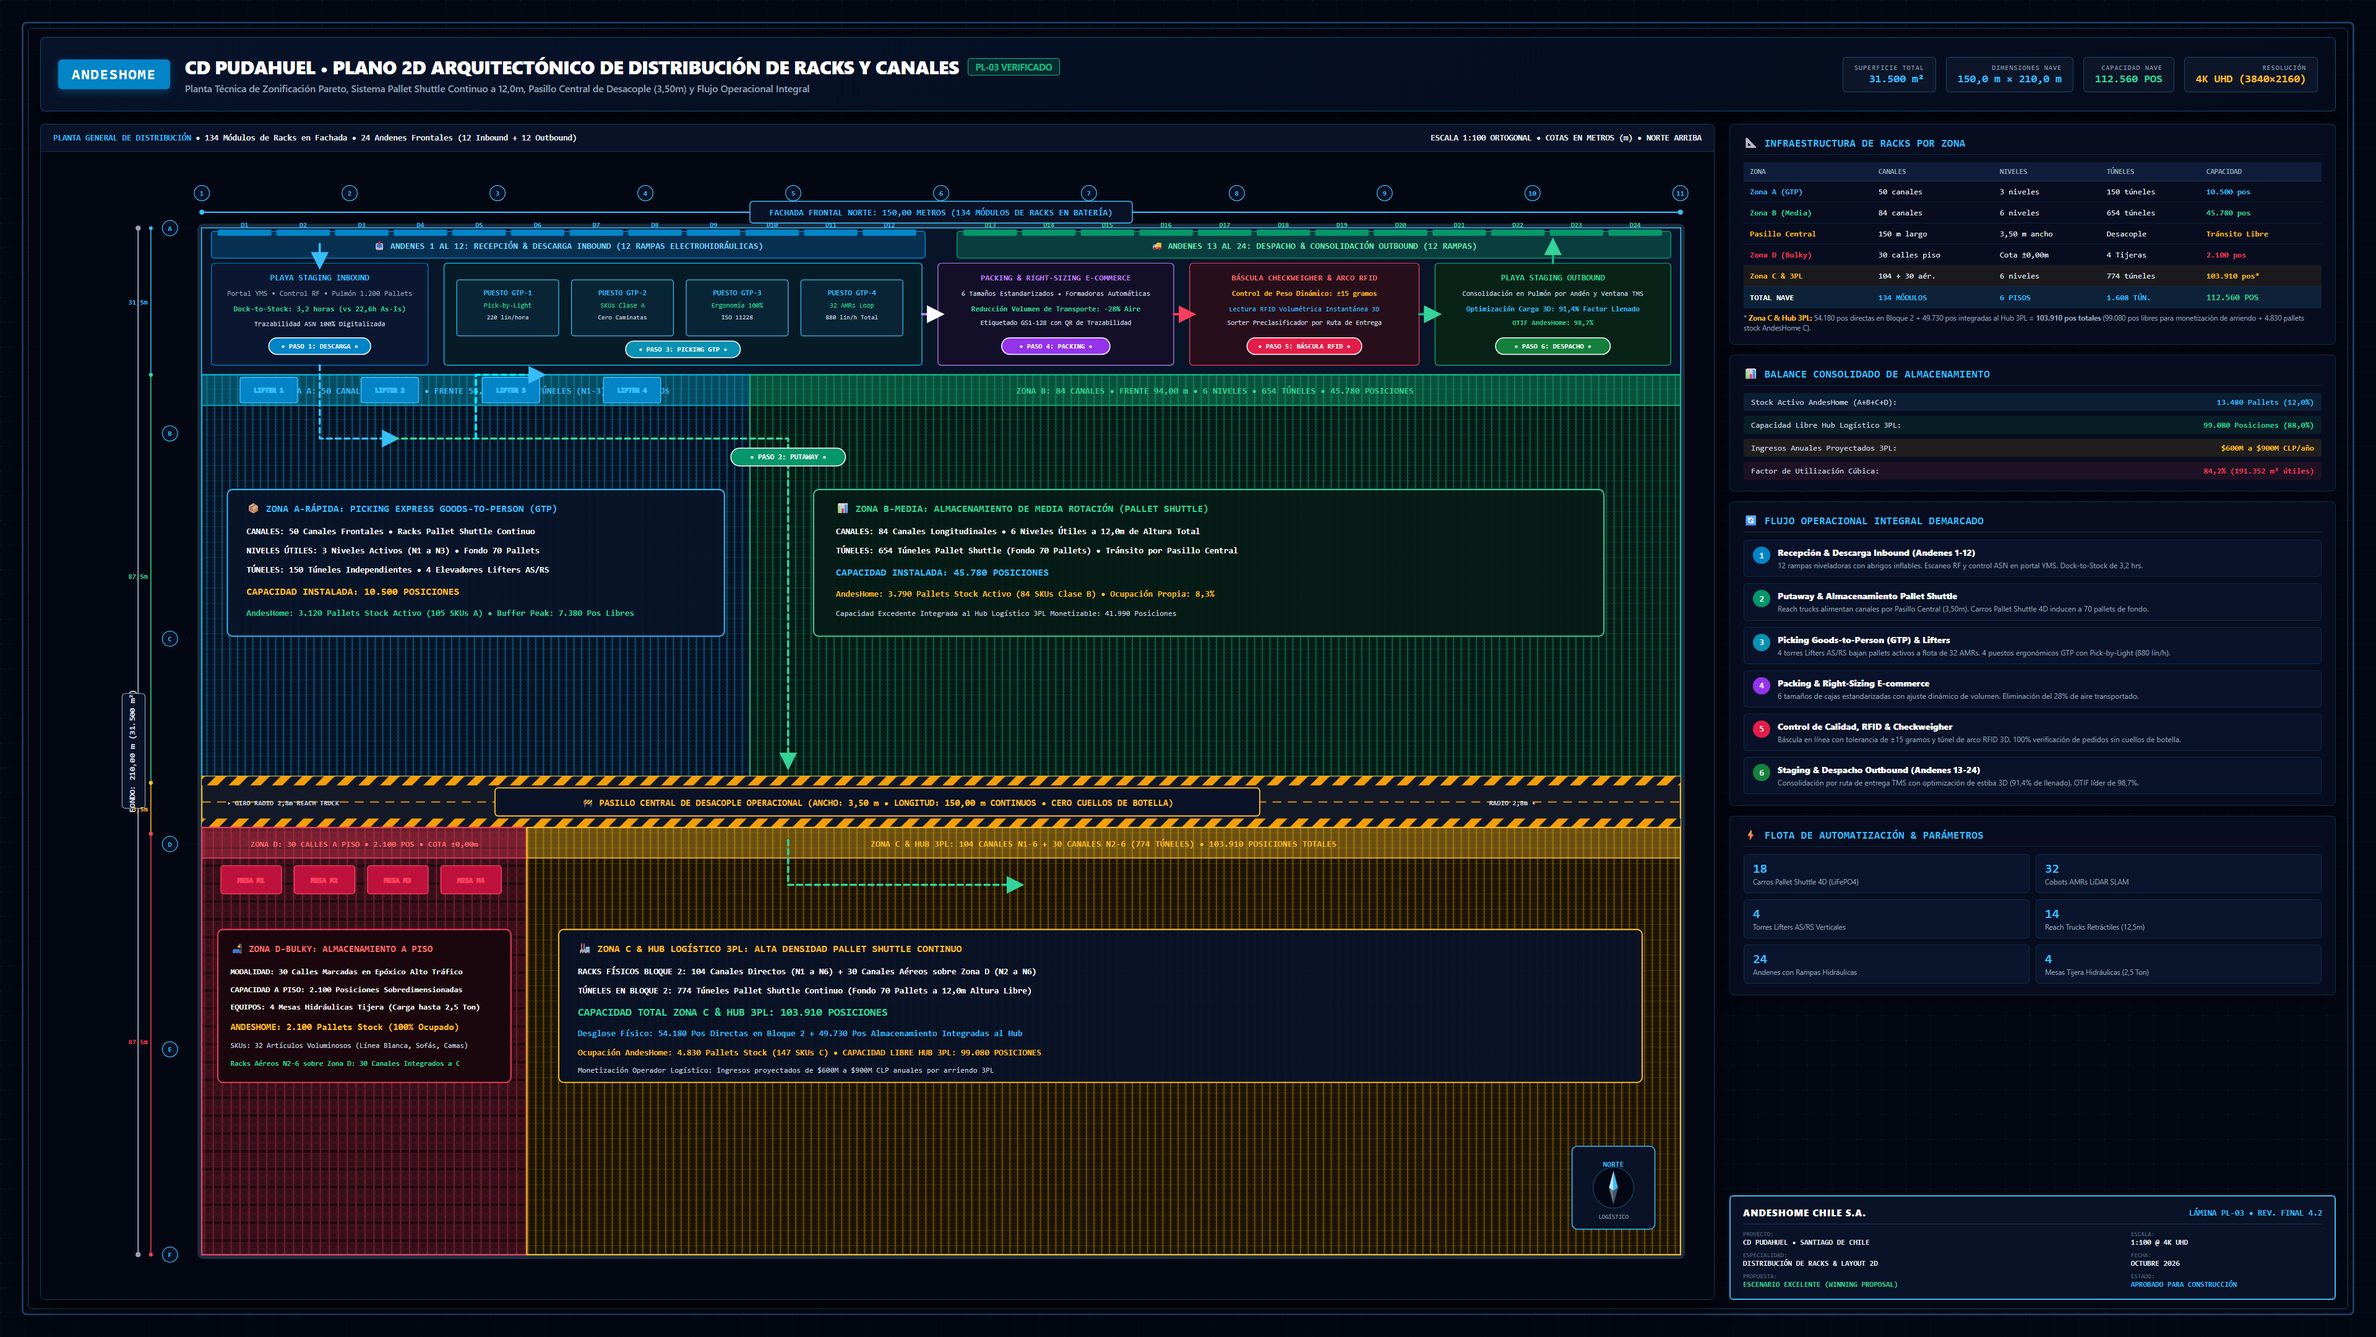
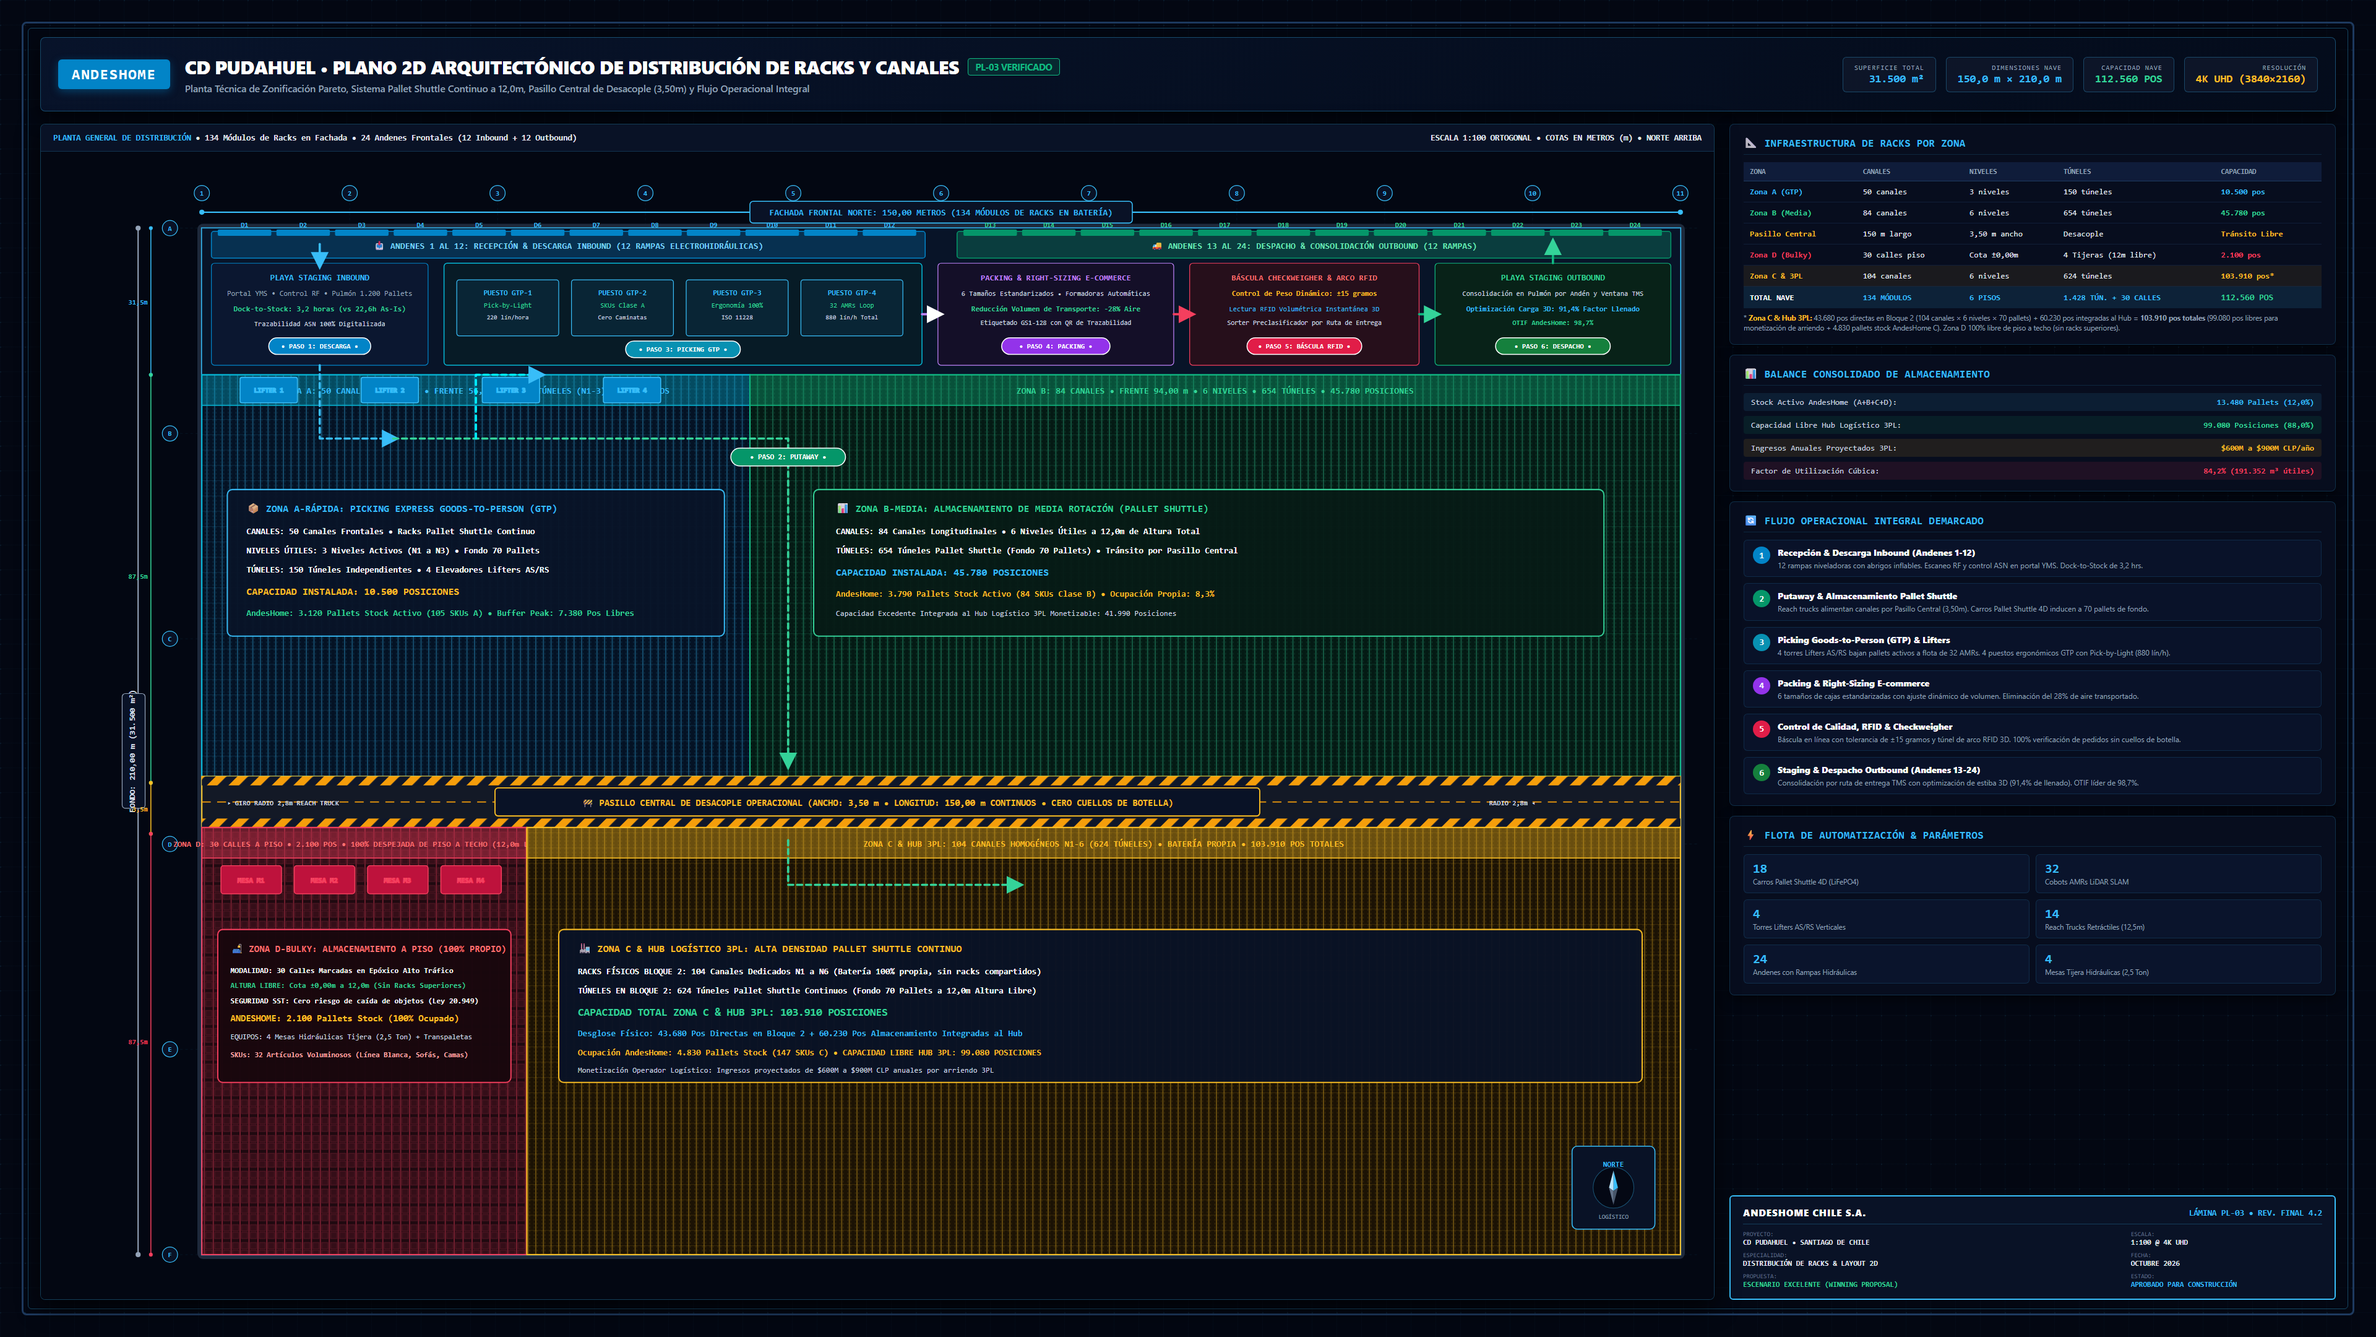
feat(layout): desacoplar zonas a racks propios independientes sin niveles compartidos y actualizar planimetria 4k

Changed region(s): [[0.7812, 0.1241, 0.9688, 0.2481], [0.0938, 0.7134, 0.1875, 0.8065], [0.3438, 0.7134, 0.4375, 0.7444]]

diff --git a/excelente.html b/excelente.html
@@ -3665,28 +3665,28 @@
 
     <!-- Cabecera de Zona C en y=524 a 540 -->
     <text x="710" y="524" fill="#fbbf24" font-size="12" font-weight="900" font-family="'Plus Jakarta Sans', sans-serif" text-anchor="middle">ZONA C-LENTA &amp; HUB LOGÍSTICO 3PL MONETIZABLE</text>
-    <text x="710" y="540" fill="#e2e8f0" font-size="9" font-weight="800" font-family="'JetBrains Mono', monospace" text-anchor="middle">DIMENSIONES: 116,40 m × 87,50 m = 10.185 m² [+ Niveles 2 al 6 sobre Zona D]</text>
+    <text x="710" y="540" fill="#e2e8f0" font-size="9" font-weight="800" font-family="'JetBrains Mono', monospace" text-anchor="middle">DIMENSIONES: 116,40 m × 87,50 m = 10.185 m² [BATERÍA 100% PROPIA E INDEPENDIENTE N1-N6]</text>
 
     <!-- Dos Tarjetas HUD en Paralelo para Zona C (y=550 a 652, h=102) -->
     <!-- Sub-Tarjeta 1: Racks y Capacidad Cuadrante (x=350, w=350) -->
     <rect x="350" y="550" width="350" height="102" rx="6" fill="#091226" stroke="rgba(245, 158, 11, 0.35)" stroke-width="1.2"/>
-    <text x="362" y="569" fill="#fbbf24" font-size="8.5" font-weight="900" font-family="'JetBrains Mono', monospace">📦 RACKS: 104 Canales (N1-N6) + 30 Canales (N2-N6)</text>
+    <text x="362" y="569" fill="#fbbf24" font-size="8.5" font-weight="900" font-family="'JetBrains Mono', monospace">📦 RACKS: 104 Canales Dedicados N1-N6 Continuos</text>
     <text x="362" y="587" fill="#ffffff" font-size="8" font-weight="800" font-family="'JetBrains Mono', monospace">6 Niveles Útiles a 12,0m de Altura Total</text>
-    <text x="362" y="605" fill="#ffffff" font-size="8.5" font-weight="800" font-family="'JetBrains Mono', monospace">TÚNELES: 774 Túneles Pallet Shuttle (Fondo 70)</text>
+    <text x="362" y="605" fill="#ffffff" font-size="8.5" font-weight="800" font-family="'JetBrains Mono', monospace">TÚNELES: 624 Túneles Pallet Shuttle N1-6 (Fondo 70)</text>
     <text x="362" y="623" fill="#34d399" font-size="9.5" font-weight="900" font-family="'JetBrains Mono', monospace">CAPACIDAD ZONA C &amp; 3PL: 103.910 POS TOTALES</text>
-    <text x="362" y="640" fill="#94a3b8" font-size="7.5" font-family="'JetBrains Mono', monospace">Factor de Utilización Cúbica: 84,2% (191.352 m³)</text>
+    <text x="362" y="640" fill="#94a3b8" font-size="7.5" font-family="'JetBrains Mono', monospace">Desglose: 43.680 Directas B2 + 60.230 Integradas Hub</text>
 
     <!-- Sub-Tarjeta 2: Modelo AndesHome + Hub 3PL (x=720, w=350) -->
     <rect x="720" y="550" width="350" height="102" rx="6" fill="#091226" stroke="rgba(245, 158, 11, 0.35)" stroke-width="1.2"/>
-    <text x="732" y="569" fill="#fbbf24" font-size="8.5" font-weight="900" font-family="'JetBrains Mono', monospace">📊 ANDESHOME: 4.450 Pallets en Uso (147 SKUs C)</text>
-    <text x="732" y="587" fill="#ffffff" font-size="8" font-weight="800" font-family="'JetBrains Mono', monospace">54.180 Pos Directas Bloque 2 + 49.730 Pos Hub 3PL</text>
+    <text x="732" y="569" fill="#fbbf24" font-size="8.5" font-weight="900" font-family="'JetBrains Mono', monospace">📊 ANDESHOME: 4.830 Pallets en Uso (147 SKUs C)</text>
+    <text x="732" y="587" fill="#ffffff" font-size="8" font-weight="800" font-family="'JetBrains Mono', monospace">Sin Racks Compartidos • Zona D 100% Despejada a Piso</text>
     <text x="732" y="605" fill="#34d399" font-size="9" font-weight="900" font-family="'JetBrains Mono', monospace">HUB 3PL TOTAL: 99.080 Pos Libres Monetizables</text>
     <text x="732" y="623" fill="#fbbf24" font-size="8.5" font-weight="900" font-family="'JetBrains Mono', monospace">Ingresos Hub 3PL Nave: $600M a $900M CLP/año</text>
     <text x="732" y="640" fill="#94a3b8" font-size="7.5" font-family="'JetBrains Mono', monospace">Protección Contra Incendio: NFPA 13 ESFR Cubierta</text>
 
     <!-- Badge de Desempeño y Rentabilidad Zona C en y=666 -->
     <rect x="440" y="666" width="540" height="24" rx="4" fill="rgba(245, 158, 11, 0.18)" stroke="#f59e0b" stroke-width="1"/>
-    <text x="710" y="682" fill="#fbbf24" font-size="8.5" font-weight="900" font-family="'JetBrains Mono', monospace" text-anchor="middle">💰 49.730 Pos Libres en C • 99.080 Libres Total Nave Hub 3PL • Rentabilidad Máxima</text>
+    <text x="710" y="682" fill="#fbbf24" font-size="8.5" font-weight="900" font-family="'JetBrains Mono', monospace" text-anchor="middle">💰 Racks 100% Homogéneos • 99.080 Pos Libres Hub 3PL • Cero Interferencias SST</text>
 
     <!-- ========================================================================= -->
     <!-- CIRCUITO OPERACIONAL LIMPIO (ZERO TEXT COLLISIONS)                        -->
@@ -3731,8 +3731,8 @@
     <text x="125" y="834" fill="#cbd5e1" font-size="8" font-family="'JetBrains Mono', monospace">
         <tspan fill="#38bdf8" font-weight="800">Zona A:</tspan> 50 canales / 150 túneles (10.500 pos) &bull; 
         <tspan fill="#34d399" font-weight="800">Zona B:</tspan> 84 canales / 654 túneles (45.780 pos) &bull; 
-        <tspan fill="#f43f5e" font-weight="800">Zona D:</tspan> 30 calles a piso (2.100 pos) &bull; 
-        <tspan fill="#fbbf24" font-weight="800">Zona C &amp; Hub 3PL:</tspan> 774 túneles (103.910 pos totales: 54.180 B2 + 49.730 3PL • 99.080 libres)
+        <tspan fill="#f43f5e" font-weight="800">Zona D:</tspan> 30 calles a piso (2.100 pos • 100% despejada a 12m) &bull; 
+        <tspan fill="#fbbf24" font-weight="800">Zona C &amp; Hub 3PL:</tspan> 104 canales N1-6 / 624 túneles (103.910 pos totales: 43.680 B2 + 60.230 3PL • 99.080 libres)
     </text>
 
     <!-- Fila 4: Consolidado Total Nave -->
@@ -4194,30 +4194,30 @@
 
         <!-- Franja frontal de cabecera Zona C -->
         <rect x="356" y="495" width="854" height="26" fill="rgba(245, 158, 11, 0.25)" stroke="#f59e0b" stroke-width="1"/>
-        <text x="783" y="512" fill="#fbbf24" font-size="9" font-weight="900" font-family="'JetBrains Mono', monospace" text-anchor="middle">ZONA C &amp; HUB 3PL: CANALES 31 AL 134 • FRENTE 116,40 m (N1 A N6) + AÉREO 30 CANALES (N2 A N6 SOBRE ZONA D)</text>
+        <text x="783" y="512" fill="#fbbf24" font-size="9" font-weight="900" font-family="'JetBrains Mono', monospace" text-anchor="middle">ZONA C &amp; HUB 3PL: CANALES 31 AL 134 • FRENTE 116,40 m • 104 CANALES HOMOGÉNEOS N1 A N6 (BATERÍA 100% PROPIA)</text>
 
         <!-- Dos Tarjetas HUD en Paralelo para Zona C -->
         <!-- Tarjeta C-1: Infraestructura de Racks -->
         <rect x="380" y="555" width="390" height="120" rx="6" fill="#1c1606" stroke="#f59e0b" stroke-width="1.4" opacity="0.95"/>
-        <text x="395" y="575" fill="#fbbf24" font-size="9" font-weight="900" font-family="'JetBrains Mono', monospace">📦 RACKS: 104 Canales (N1-6) + 30 Canales (N2-6)</text>
+        <text x="395" y="575" fill="#fbbf24" font-size="9" font-weight="900" font-family="'JetBrains Mono', monospace">📦 RACKS: 104 Canales Dedicados N1-N6 (Batería Propia)</text>
         <text x="395" y="593" fill="#ffffff" font-size="8.5" font-weight="800" font-family="'JetBrains Mono', monospace">6 Niveles Útiles a 12,0m de Altura Total Nave</text>
-        <text x="395" y="611" fill="#ffffff" font-size="8.5" font-weight="800" font-family="'JetBrains Mono', monospace">TÚNELES: 774 Túneles Pallet Shuttle (Fondo 70 Pallets)</text>
+        <text x="395" y="611" fill="#ffffff" font-size="8.5" font-weight="800" font-family="'JetBrains Mono', monospace">TÚNELES: 624 Túneles Pallet Shuttle Homogéneos (Fondo 70)</text>
         <text x="395" y="629" fill="#34d399" font-size="10" font-weight="900" font-family="'JetBrains Mono', monospace">CAPACIDAD ZONA C &amp; 3PL: 103.910 POS TOTALES</text>
-        <text x="395" y="647" fill="#cbd5e1" font-size="8" font-family="'JetBrains Mono', monospace">Factor de Utilización Cúbica: 84,2% (191.352 m³)</text>
+        <text x="395" y="647" fill="#cbd5e1" font-size="8" font-family="'JetBrains Mono', monospace">Desglose: 43.680 Directas B2 + 60.230 Integradas Hub</text>
         <text x="395" y="663" fill="#94a3b8" font-size="7.5" font-family="'JetBrains Mono', monospace">Protección Contra Incendio: NFPA 13 ESFR Cubierta K=25.2</text>
 
         <!-- Tarjeta C-2: Ocupación AndesHome y Hub 3PL -->
         <rect x="790" y="555" width="400" height="120" rx="6" fill="#1c1606" stroke="#f59e0b" stroke-width="1.4" opacity="0.95"/>
         <text x="805" y="575" fill="#fbbf24" font-size="9" font-weight="900" font-family="'JetBrains Mono', monospace">📊 MODELO DE MONETIZACIÓN HUB LOGÍSTICO 3PL</text>
-        <text x="805" y="593" fill="#34d399" font-size="8.5" font-weight="800" font-family="'JetBrains Mono', monospace">AndesHome en C: 4.450 Pallets en Uso (147 SKUs C)</text>
-        <text x="805" y="611" fill="#ffffff" font-size="8.5" font-weight="800" font-family="'JetBrains Mono', monospace">Ocupación AndesHome en Cuadrante C: Solo 8,2%</text>
-        <text x="805" y="629" fill="#fbbf24" font-size="10" font-weight="900" font-family="'JetBrains Mono', monospace">HUB 3PL EN ZONA C: 49.730 POSICIONES LIBRES</text>
+        <text x="805" y="593" fill="#34d399" font-size="8.5" font-weight="800" font-family="'JetBrains Mono', monospace">AndesHome en C: 4.830 Pallets en Uso (147 SKUs C)</text>
+        <text x="805" y="611" fill="#ffffff" font-size="8.5" font-weight="800" font-family="'JetBrains Mono', monospace">Sin Racks Compartidos • Zona D 100% Despejada a Piso</text>
+        <text x="805" y="629" fill="#fbbf24" font-size="10" font-weight="900" font-family="'JetBrains Mono', monospace">HUB 3PL TOTAL: 99.080 POSICIONES LIBRES</text>
         <text x="805" y="647" fill="#34d399" font-size="8" font-weight="800" font-family="'JetBrains Mono', monospace">Ingresos Comerciales: $600M a $900M CLP/año Facturación</text>
-        <text x="805" y="663" fill="#cbd5e1" font-size="7.5" font-family="'JetBrains Mono', monospace">Posiciones Libres Total Nave Hub 3PL: 99.080 Posiciones</text>
+        <text x="805" y="663" fill="#cbd5e1" font-size="7.5" font-family="'JetBrains Mono', monospace">Cero Racks Colgados • Seguridad Operacional Absoluta</text>
 
         <!-- Badge de Rentabilidad Inmobiliaria -->
         <rect x="520" y="705" width="560" height="26" rx="4" fill="rgba(245, 158, 11, 0.25)" stroke="#f59e0b" stroke-width="1"/>
-        <text x="800" y="722" fill="#fbbf24" font-size="8.5" font-weight="900" font-family="'JetBrains Mono', monospace" text-anchor="middle">💰 49.730 Pos Libres en C • 99.080 Libres en Toda la Nave • Máxima Rentabilidad de Activo 3PL</text>
+        <text x="800" y="722" fill="#fbbf24" font-size="8.5" font-weight="900" font-family="'JetBrains Mono', monospace" text-anchor="middle">💰 Racks 100% Homogéneos N1-N6 • 99.080 Libres Hub 3PL • Cero Interferencias SST</text>
     </g>
 
 
@@ -4366,7 +4366,7 @@
             <rect x="0" y="0" width="22" height="14" fill="#181304" stroke="#f59e0b" stroke-width="1.2"/>
             <line x1="7" y1="0" x2="7" y2="14" stroke="#f59e0b" stroke-width="0.8"/>
             <line x1="15" y1="0" x2="15" y2="14" stroke="#f59e0b" stroke-width="0.8"/>
-            <text x="30" y="11"><tspan fill="#fbbf24" font-weight="900">Zona C &amp; Hub 3PL:</tspan> 104 canales N1-6 + 30 en N2-6 (774 túneles B2 • 103.910 pos totales macro-zona: 54.180 B2 + 49.730 3PL)</text>
+            <text x="30" y="11"><tspan fill="#fbbf24" font-weight="900">Zona C &amp; Hub 3PL:</tspan> 104 canales N1-6 dedicados (624 túneles B2 • 103.910 pos totales macro-zona: 43.680 B2 + 60.230 3PL • 99.080 libres)</text>
         </g>
     </g>
 
@@ -4496,12 +4496,12 @@
                                         <strong style="color: #fbbf24;">Zona C-Lenta &amp; Hub 3PL</strong><br>
                                         <span style="font-size: 0.7rem; color: #94a3b8;">Reserva Alta Densidad</span>
                                     </td>
-                                    <td>Bloque 2 Posterior (Canales 31 al 134 en N1-N6 + Canales 1 al 30 en N2-N6)</td>
-                                    <td><strong>104 canales</strong> continuos + 30 en N2-N6</td>
+                                    <td>Bloque 2 Posterior (Canales 31 al 134 dedicados N1-N6 • Batería 100% propia)</td>
+                                    <td><strong>104 canales</strong> continuos independientes</td>
                                     <td><strong>6 niveles</strong> útiles</td>
-                                    <td><strong style="color: #fbbf24; font-family: 'JetBrains Mono', monospace;">774 túneles</strong><br><span style="font-size: 0.68rem; color: #94a3b8;">624 N1-6 + 150 N2-6</span></td>
+                                    <td><strong style="color: #fbbf24; font-family: 'JetBrains Mono', monospace;">624 túneles</strong><br><span style="font-size: 0.68rem; color: #94a3b8;">104 canales × 6 niveles N1-6</span></td>
                                     <td>70 pallets</td>
-                                    <td><strong style="color: #34d399; font-family: 'JetBrains Mono', monospace;">103.910 pos</strong><br><span style="font-size: 0.68rem; color: #94a3b8;">(54.180 B2 + 49.730 3PL)</span></td>
+                                    <td><strong style="color: #34d399; font-family: 'JetBrains Mono', monospace;">103.910 pos</strong><br><span style="font-size: 0.68rem; color: #94a3b8;">(43.680 directas + 60.230 3PL)</span></td>
                                     <td><span style="color: #fbbf24; font-weight: 700;">4.830 pos AndesHome</span><br><strong style="color: #34d399;">+99.080 pos Libres Hub 3PL</strong><br><span style="color: #94a3b8; font-size: 0.68rem;">(Total Macro-Zona C &amp; 3PL)</span></td>
                                     <td>Racks compactos autoportantes Pallet Shuttle continuo en alta densidad a 12m</td>
                                 </tr>
@@ -4512,12 +4512,12 @@
                                     </td>
                                     <td>Bloque 2 Posterior (Canales 1 al 30 en piso exclusivo)</td>
                                     <td><strong>30 módulos</strong> de piso (~34 m frente)</td>
-                                    <td><strong>1 nivel</strong> (Cota ±0,00m a Nivel 1)</td>
+                                    <td><strong>Cota ±0,00m</strong> (12,0m libres a cubierta)</td>
                                     <td><strong style="color: #f43f5e; font-family: 'JetBrains Mono', monospace;">30 calles a piso</strong><br><span style="font-size: 0.68rem; color: #94a3b8;">78 SKUs pesados &gt;25kg</span></td>
                                     <td>70 pallets</td>
                                     <td><strong style="color: #ffffff; font-family: 'JetBrains Mono', monospace;">2.100 pos a piso</strong></td>
                                     <td><span style="color: #f43f5e; font-weight: 700;">2.060 pos AndesHome</span><br><span style="color: #64748b; font-size: 0.72rem;">40 pos holgura suelo</span></td>
-                                    <td>Calles de almacenamiento a piso sin niveles superiores. 4 mesas hidráulicas tijera y transpaletas</td>
+                                    <td>Área 100% despejada a piso de cota ±0,00m a 12,0m (sin racks aéreos). 4 mesas hidráulicas tijera y transpaletas de alto tonelaje</td>
                                 </tr>
                                 <tr style="background: rgba(2, 132, 199, 0.2); font-weight: 900; border-top: 2px solid #38bdf8;">
                                     <td colspan="2" style="color: #ffffff;">TOTAL CONSOLIDADO INFRAESTRUCTURA</td>
